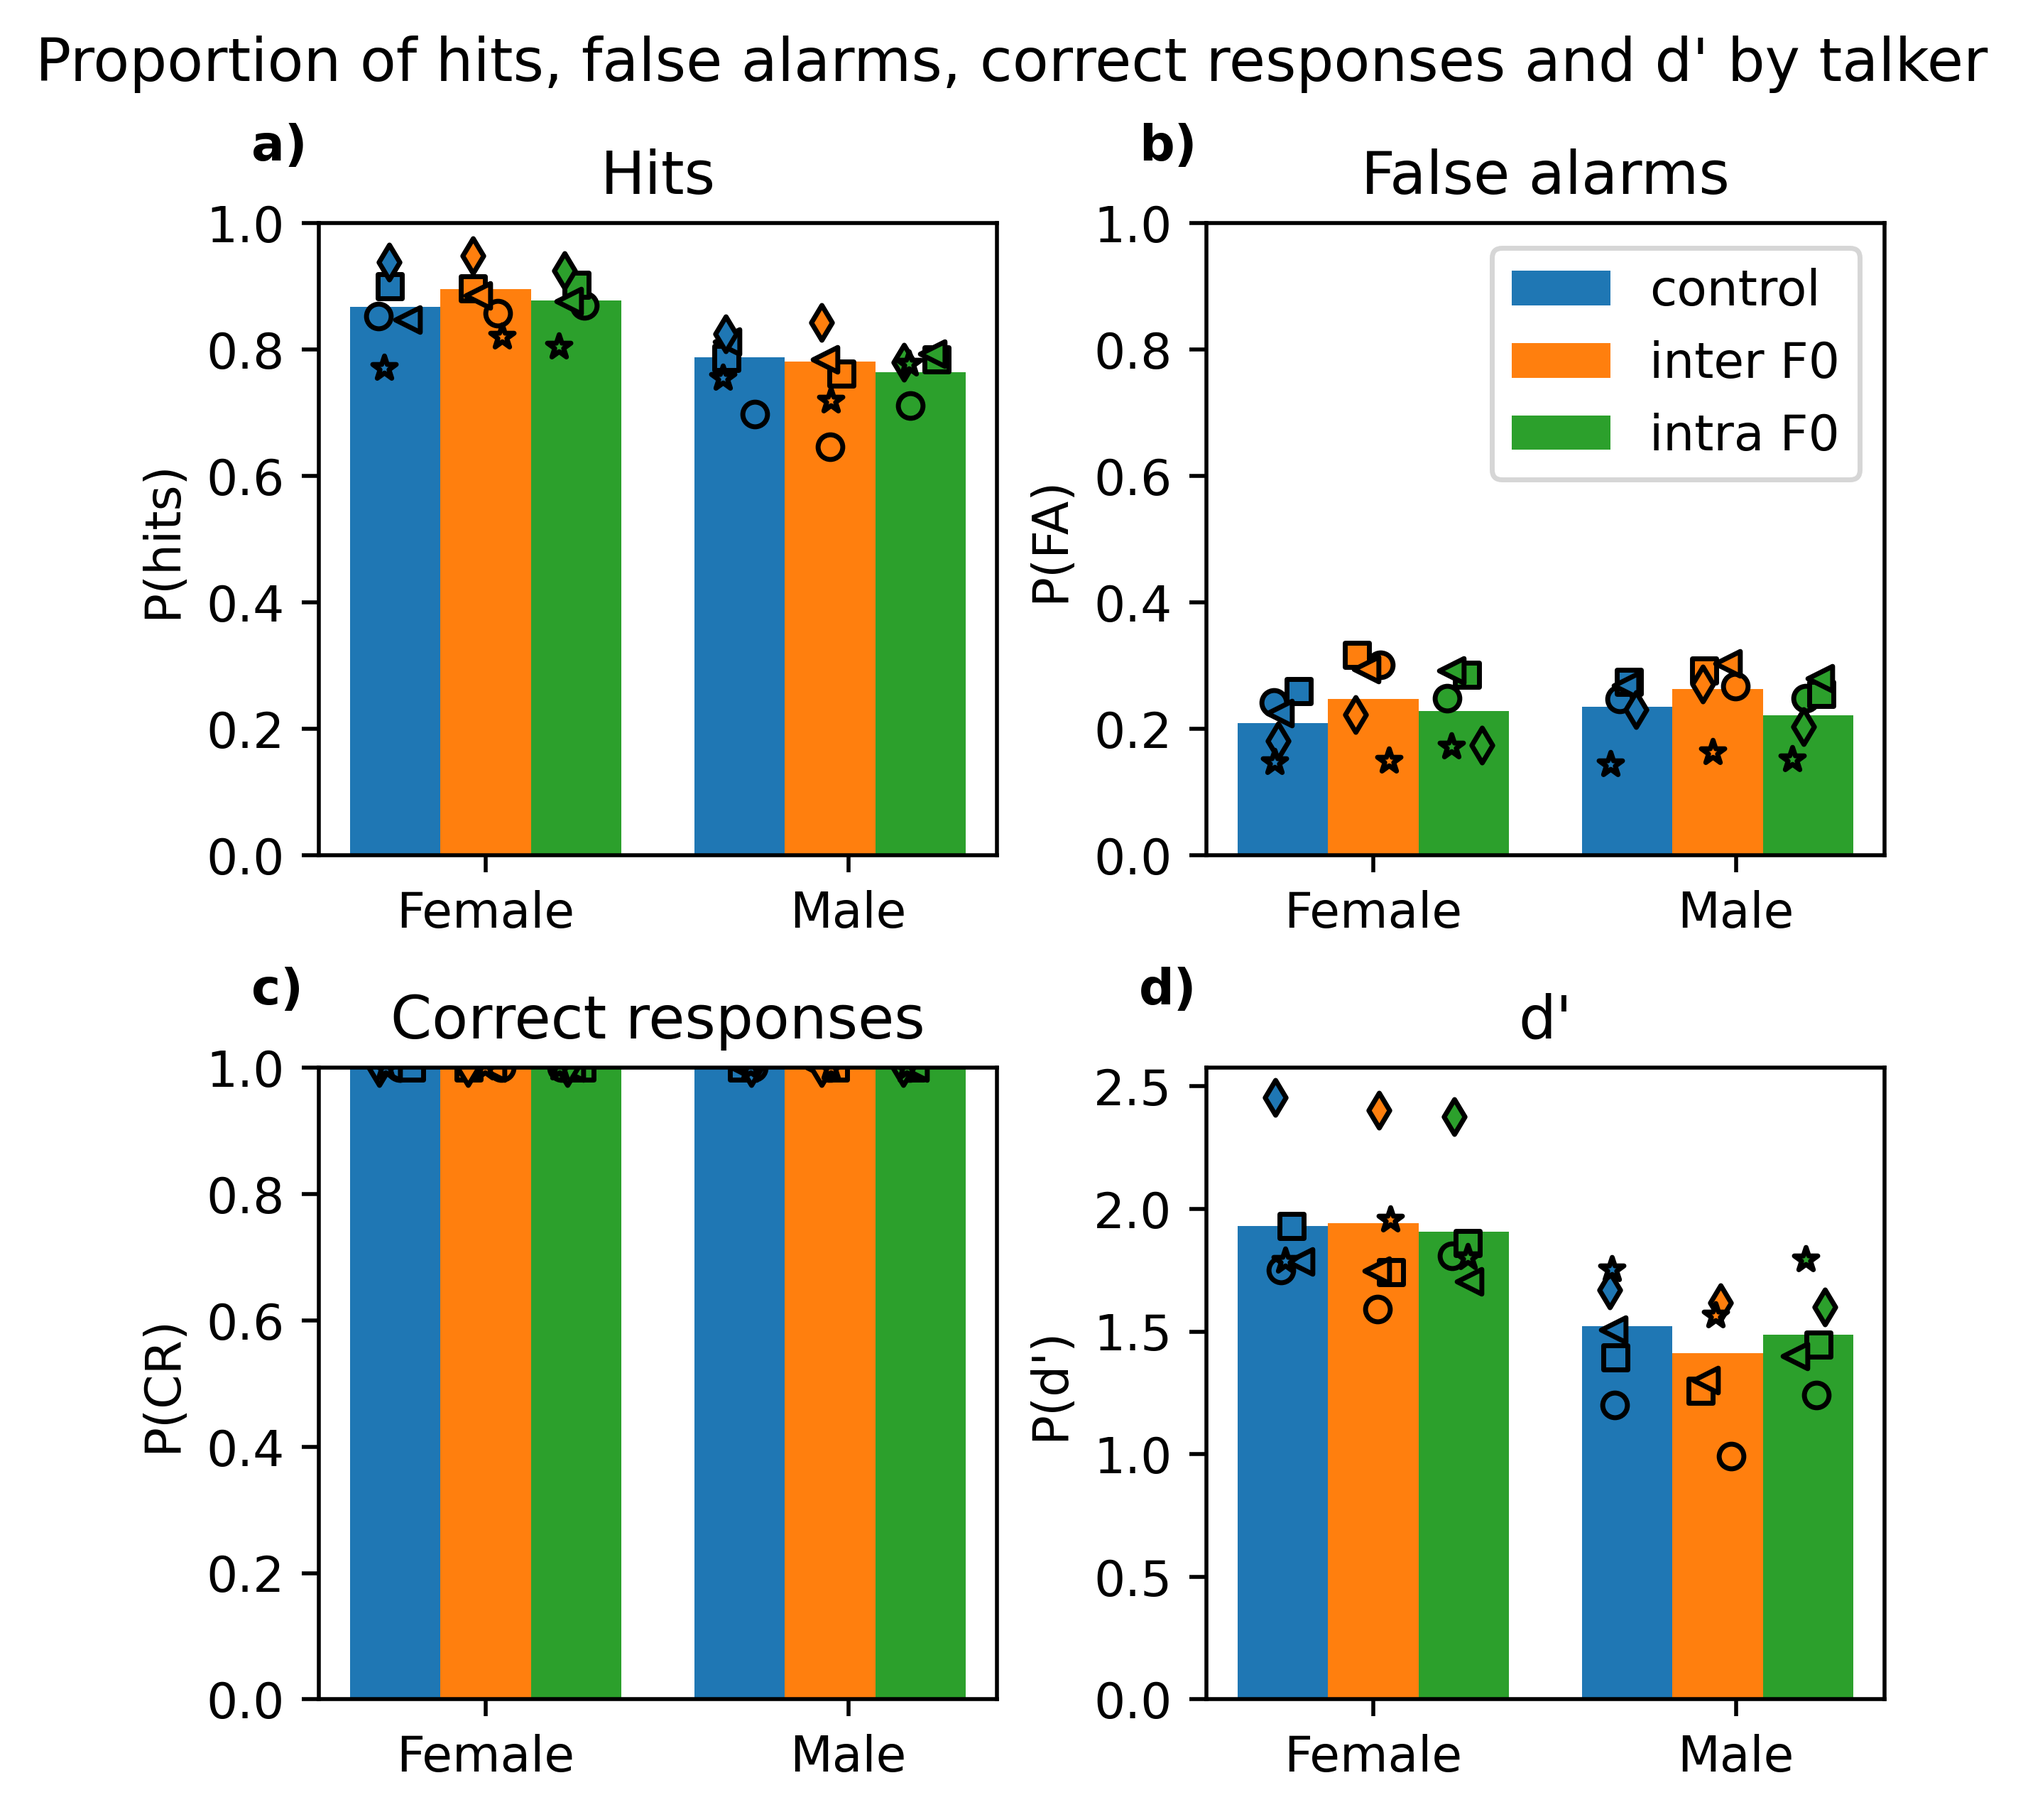
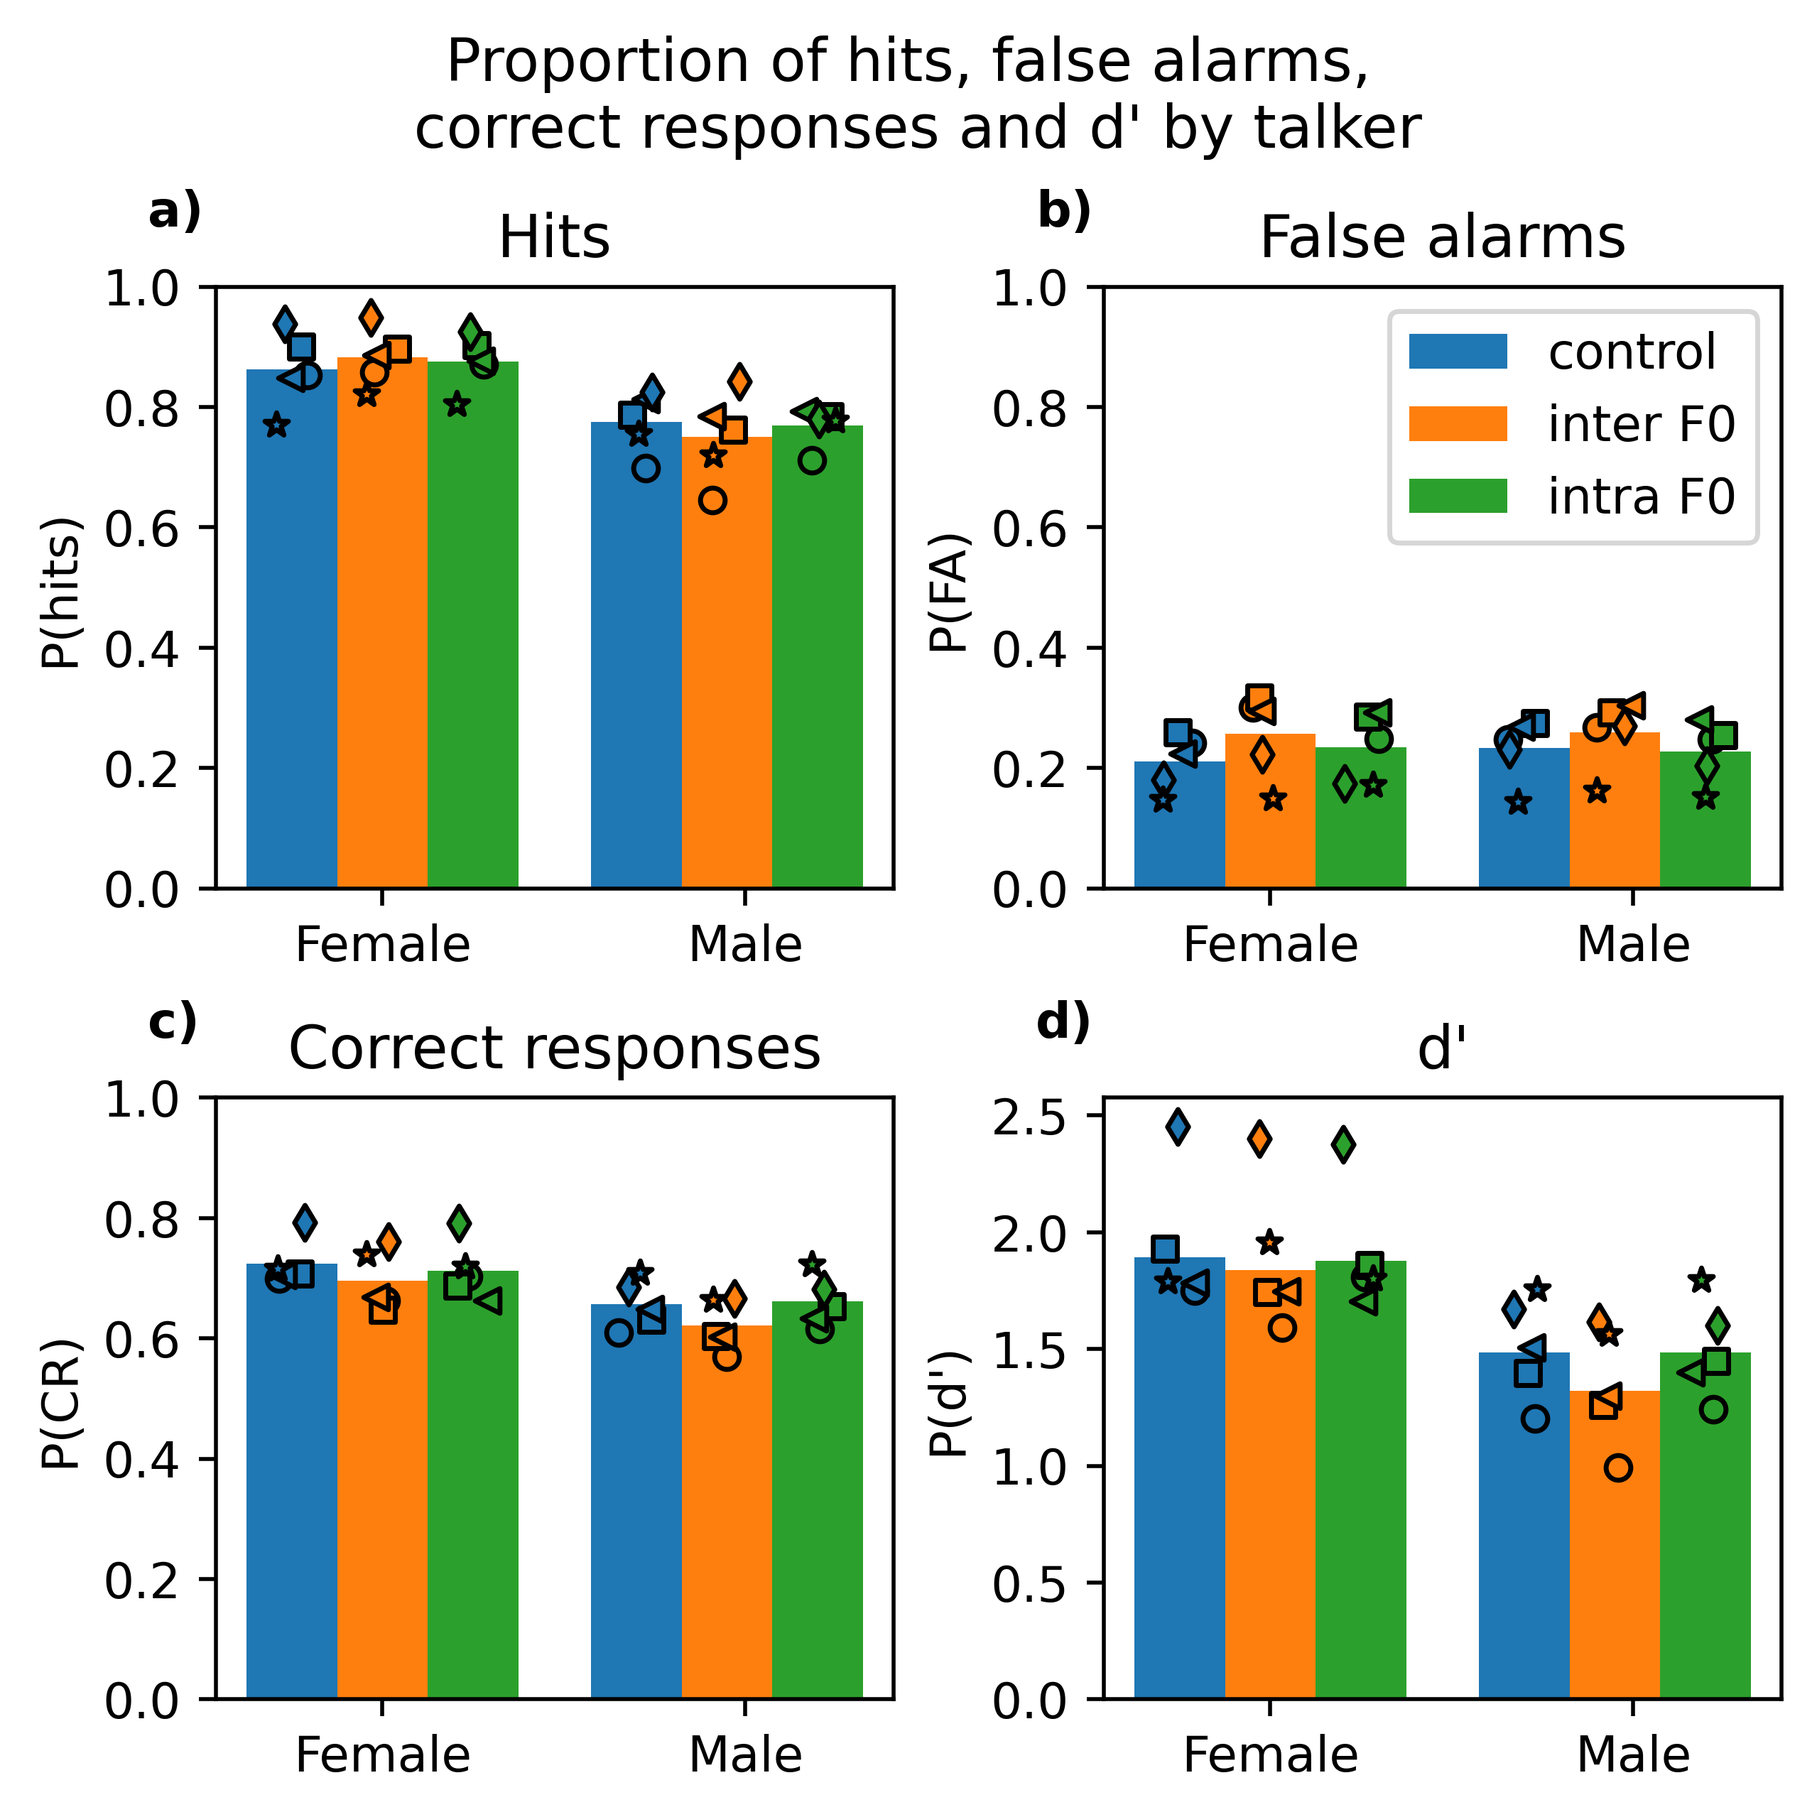
changing correct reject to cor4rect responses

Changed region(s): [[0.0, 0.0, 0.9883, 0.9883], [0.8647, 0.0309, 0.9883, 0.0618], [0.1235, 0.525, 0.1544, 0.5559]]

diff --git a/models/plotstatsacrossanimals.py b/models/plotstatsacrossanimals.py
@@ -87,10 +87,16 @@ def run_stats_calc(df, ferrets, stats_dict, pitch_param = 'control_trial'):
         df_noncatchnoncorrection_talker_hitrate = df_noncatchnoncorrection_talker[df_noncatchnoncorrection_talker['response'] != 5]
 
         df_catchnoncorrection_talker = df_catchnoncorrection[df_catchnoncorrection['talker'] == talker]
-        hits = np.mean(df_noncatchnoncorrection_talker_hitrate['hit'])
-        false_alarms = np.mean(df_noncorrection_talker['falsealarm'])
-        correct_rejections = np.mean(df_catchnoncorrection_talker['response'] == 3)
-        correct_response =  (len(df_noncatchnoncorrection_talker[df_noncatchnoncorrection_talker['hit']==True]) + len(df_catchnoncorrection_talker[df_catchnoncorrection_talker['response'] == 3]))/ (len(df_noncorrection_talker))
+        # hits = np.mean(df_noncatchnoncorrection_talker_hitrate['hit'])
+        # false_alarms = np.mean(df_noncorrection_talker['falsealarm'])
+        # correct_rejections = np.mean(df_catchnoncorrection_talker['response'] == 3)
+        # correct_response =  (len(df_noncatchnoncorrection_talker[df_noncatchnoncorrection_talker['hit']==True]) + len(df_catchnoncorrection_talker[df_catchnoncorrection_talker['response'] == 3]))/ (len(df_noncorrection_talker))
+        #take mean of all the values in the dictionary
+
+
+        correct_response = np.mean(list(stats_dict[talker][pitch_param]['correct_response'].values()))
+        hits = np.mean(list(stats_dict[talker][pitch_param]['hits'].values()))
+        false_alarms = np.mean(list(stats_dict[talker][pitch_param]['false_alarms'].values()))
 
         stats_dict_all[talker][pitch_param]['hits'] = hits
         stats_dict_all[talker][pitch_param]['false_alarms'] = false_alarms
@@ -263,7 +269,7 @@ def plot_stats(stats_dict_all_combined, stats_dict_combined):
     ax3.annotate('c)', xy=get_axis_limits(ax3), xytext=(-0.1, ax3.title.get_position()[1]+0.1), textcoords='axes fraction', fontproperties = font_props,zorder=10)
     ax4.annotate('d)', xy=get_axis_limits(ax4), xytext=(-0.1, ax4.title.get_position()[1]+0.1), textcoords='axes fraction', fontproperties = font_props,zorder=10)
 
-    plt.suptitle('Proportion of hits, false alarms, correct responses and d\' by talker')
+    plt.suptitle('Proportion of hits, false alarms,\n correct responses and d\' by talker')
     plt.savefig('figs/proportion_hits_falsealarms_correctresp_dprime_bytalker.png', dpi = 500, bbox_inches='tight')
     plt.show()
 
